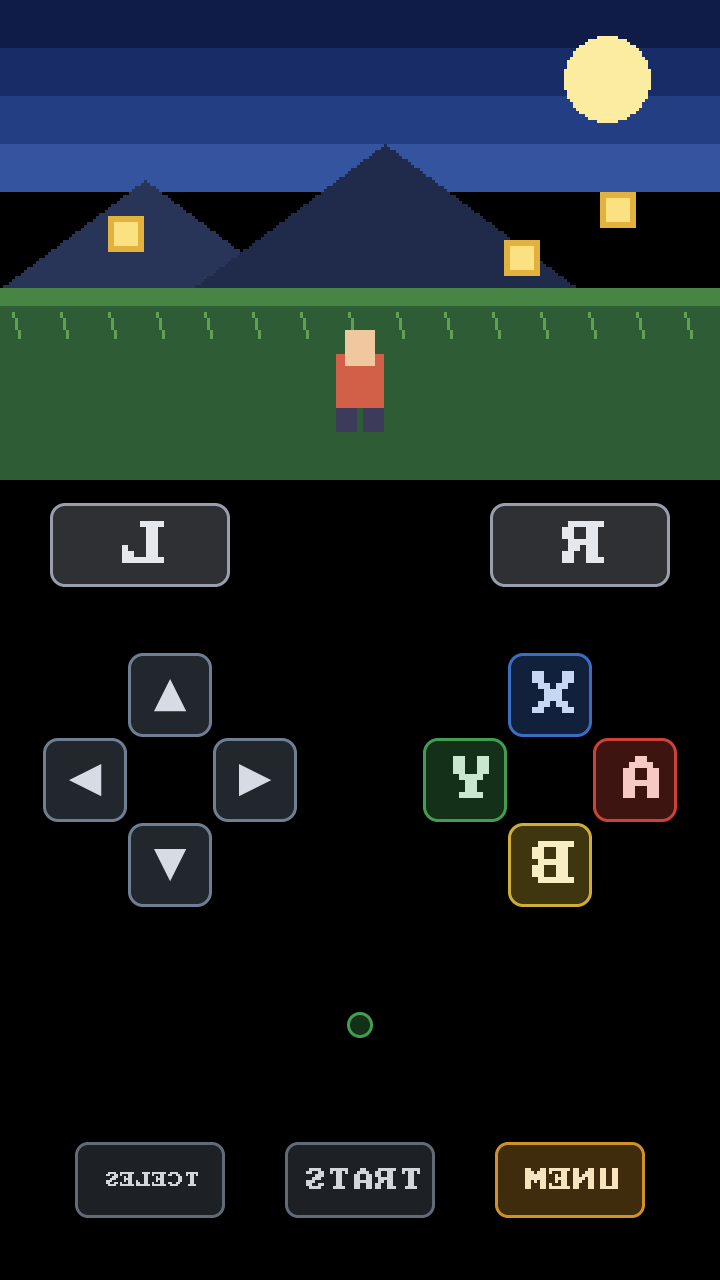
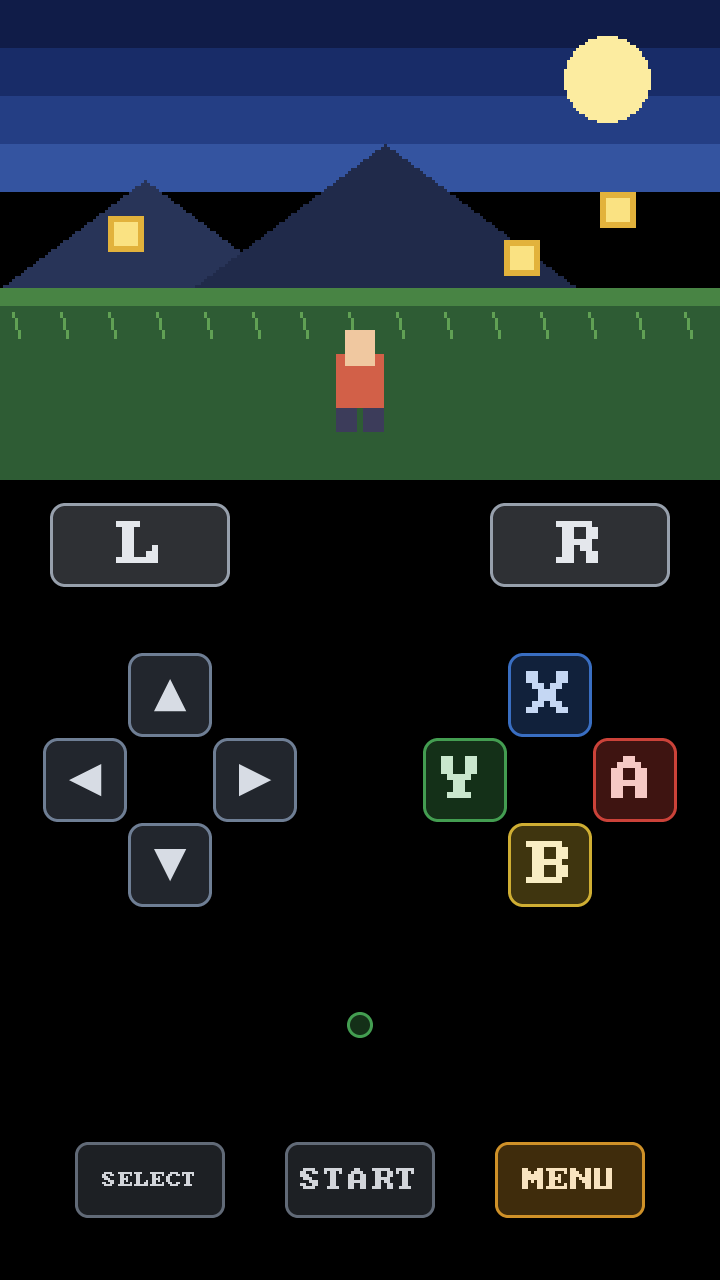
docs: 修截图（字形口径修正后重渲染）+ 布局图改纯 ASCII（避免在非等宽/纯文本环境显示成乱码）

diff --git a/README_CN.md b/README_CN.md
@@ -93,16 +93,17 @@ python3 -m esptool --chip esp32p4 -p /dev/cu.usbmodemXXXX -b 921600 \
 Tab5 几乎没有物理按键，所以手柄画在触摸屏的**下方控制区**（游戏视口 720x480 固定贴顶）：
 
 ```
-┌──────────────────────────────┐
-│       游戏画面 720x480        │   ← 3x 整数缩放，永不遮挡
-├──────────────────────────────┤
-│ [L]                      [R] │
-│                              │
-│    ✛        ●          Ⓨ     │   ● = 电量圆灯
-│            (电量)       ⓍⒶⓑ    │
-│                              │
-│  [SELECT]  [START]  [MENU]   │
-└──────────────────────────────┘
++----------------------------------+
+|         游戏画面 720x480          |   <- 3x 整数缩放，永不遮挡
++----------------------------------+
+| [L]                          [R] |
+|                                  |
+|  [方向键]   (电量灯)        [X]  |   (电量灯) 绿/橙/红
+|                           [Y] [A]|
+|                            [B]   |
+|                                  |
+|    [SELECT]  [START]  [MENU]     |
++----------------------------------+
 ```
 
 - **方向键** —— 控制区左下

diff --git a/README.md b/README.md
@@ -98,16 +98,17 @@ The Tab5 has almost no physical buttons, so the gamepad is drawn on the touch sc
 below the game (the game viewport is 720x480 anchored to the top of the portrait panel):
 
 ```
-┌──────────────────────────────┐
-│        game screen 720x480   │   ← 3x integer scale, never overlapped
-├──────────────────────────────┤
-│ [L]                      [R] │
-│                              │
-│    ✛        ●          Ⓨ     │   ● = battery light
-│            (battery)   ⓍⒶⓑ    │
-│                              │
-│  [SELECT]  [START]  [MENU]   │
-└──────────────────────────────┘
++----------------------------------+
+|         game screen 720x480      |   <- 3x integer scale, never overlapped
++----------------------------------+
+| [L]                          [R] |
+|                                  |
+|  [D-pad]    (LED)           [X]  |   (LED) = battery light
+|             battery      [Y] [A] |         green/amber/red
+|                            [B]   |
+|                                  |
+|    [SELECT]  [START]  [MENU]     |
++----------------------------------+
 ```
 
 - **D-pad** — control area, bottom-left
